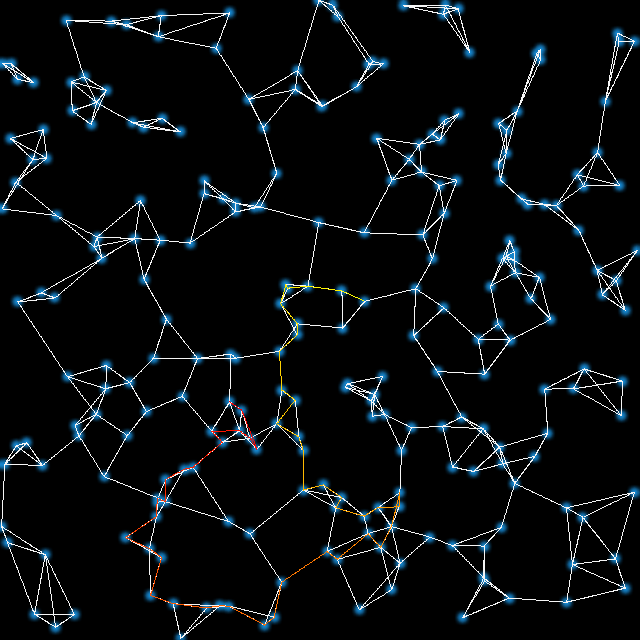
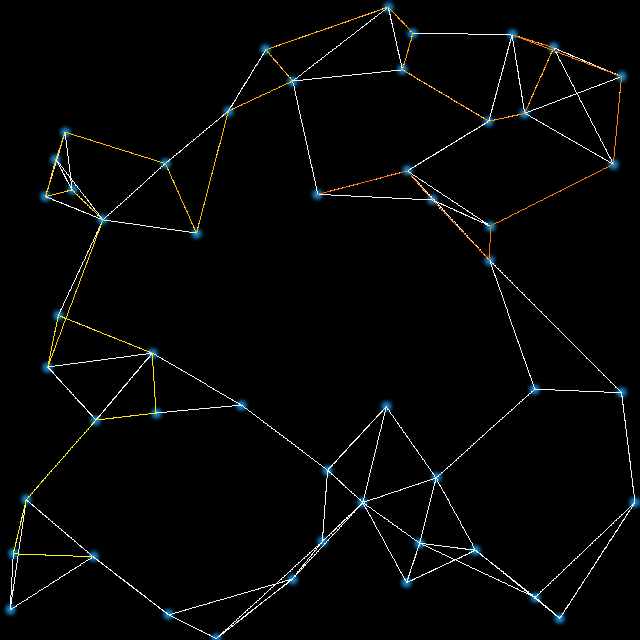
fiddling with the nodes

diff --git a/travelling_salesman.go b/travelling_salesman.go
@@ -9,6 +9,8 @@ import (
 	"os"
 	"sort"
 	"time"
+
+	"github.com/lucasb-eyer/go-colorful"
 )
 
 func main() {
@@ -18,11 +20,17 @@ func main() {
 	rand.Seed(time.Now().UTC().UnixNano())
 
 	// Create and populate the slice of Nodes
-	n := 50
-	peers := 6
+	n := 49
+	peers := 7
 	nodes := make([]*Node, n)
+	group := 0
 	for i := 0; i < n; i++ {
-		nodes[i] = NewNode(peers, canvas)
+		node := NewNode(peers, canvas)
+		if i%peers == 0 {
+			group++
+		}
+		node.Group = group
+		nodes[i] = node
 	}
 
 	//Randomly point Nodes at each other
@@ -46,24 +54,30 @@ func main() {
 	log.Print("Nodes sorted")
 
 	// Draw on circles representing nodes
+	log.Print("Drawing Nodes")
+	colors := colorful.FastHappyPalette(7)
 	for _, node := range nodes {
-		canvas.DrawCircle(color.RGBA{22, 131, 201, 255}, node.Position, 5)
+		c := colors[node.Group-1]
+		canvas.DrawCircle(color.RGBA{uint8(c.R * 255), uint8(c.G * 255), uint8(c.B * 255), 255}, node.Position, 5)
+
 	}
 	canvas.Blur(3, new(WeightFunctionDist))
 
 	// Draw connections between nodes
-	for _, node := range nodes {
-		for _, peer := range node.Peers[:3] {
-			canvas.DrawLine(color.RGBA{0, 0, 0, 10}, node.Position, peer.Position)
-		}
-	}
+	//log.Print("Drawing connection")
+	//for _, node := range nodes {
+	//	for _, peer := range node.Peers[:3] {
+	//		canvas.DrawLine(color.RGBA{0, 0, 0, 10}, node.Position, peer.Position)
+	//	}
+	//}
 
 	// Start sending messages between nodes
-	for i := 0; i < 1; i++ {
-		nodes[i].Power = 255
-		go nodes[i].Send()
-	}
-	time.Sleep(time.Second)
+	//log.Print("sending message")
+	//for i := 0; i < 1; i++ {
+	//	nodes[i].Power = 255
+	//	go nodes[i].Send()
+	//}
+	//time.Sleep(time.Second)
 
 	// Write out image
 	dirName := "img"
@@ -71,7 +85,7 @@ func main() {
 		os.Mkdir(dirName, 0755)
 		return
 	}
-	outFilename := dirName + "/nodes.png"
+	outFilename := dirName + "/travelling_salesman.png"
 	outFile, err := os.Create(outFilename)
 	if err != nil {
 		log.Fatal(err)

diff --git a/node.go b/node.go
@@ -11,6 +11,7 @@ type Node struct {
 	Peers    []*Node
 	Canvas   *Canvas
 	Power    uint8
+	Group    int
 }
 
 func NewNode(peers int, canvas *Canvas) *Node {
